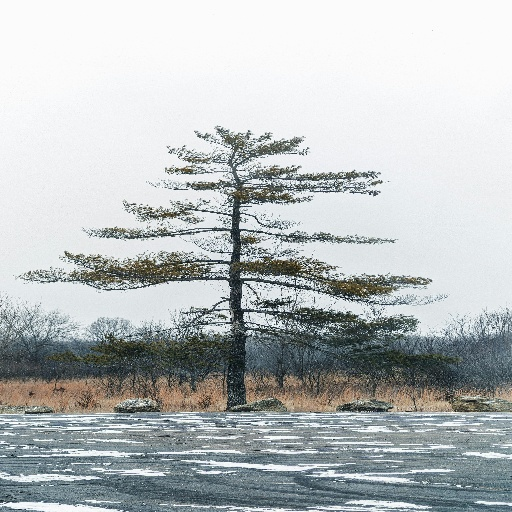
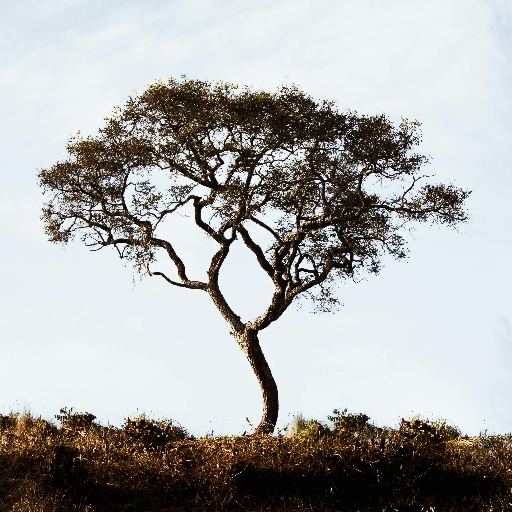
Update

diff --git a/scripts/build_index.py b/scripts/build_index.py
@@ -25,7 +25,14 @@ from src.storage.db import init_db, get_session
 from src.storage.models import Image, Feature
 
 
+import argparse
+
 def main():
+    parser = argparse.ArgumentParser(description="Build Search Index")
+    parser.add_argument("--method", type=str, choices=["faiss", "db", "both"], default="both",
+                        help="Lưu vào đâu? (faiss, db, both)")
+    args = parser.parse_args()
+
     with open("configs/default.yaml", "r", encoding="utf-8") as f:
         config = yaml.safe_load(f)
     processed_dir = Path(config["data"]["processed_dir"])
@@ -46,22 +53,38 @@ def main():
     norm_matrix = normalizer.transform(matrix)
     normalizer.save(str(features_dir))
 
-    print("=== Step 4: Building FAISS index ===")
+    print(f"=== Step 4: Saving features (Method: {args.method}) ===")
     init_db()
-    with get_session() as session:
-        image_ids = []
-        for path in valid_paths:
-            img = session.query(Image).filter_by(filename=path.name).first()
-            if img:
-                image_ids.append(img.id)
-        image_ids = np.array(image_ids, dtype=np.int64)
+    
+    image_ids = []
+    # 1. Lưu vào DB nếu được yêu cầu
+    if args.method in ["db", "both"]:
+        with get_session() as session:
+            print("  Saving vectors to Database...")
+            session.query(Feature).delete()
+            for i, path in enumerate(valid_paths):
+                img = session.query(Image).filter_by(filename=path.name).first()
+                if img:
+                    image_ids.append(img.id)
+                    session.add(Feature(image_id=img.id, vector=norm_matrix[i].tolist()))
+            session.commit()
+    else:
+        # Nếu chỉ build FAISS, vẫn cần lấy list Image IDs để mapping
+        with get_session() as session:
+            for path in valid_paths:
+                img = session.query(Image).filter_by(filename=path.name).first()
+                if img: image_ids.append(img.id)
 
-    store = VectorStore(
-        index_path=config["storage"]["faiss_index_path"],
-        ids_path=config["storage"]["image_ids_path"],
-    )
-    store.build(norm_matrix, image_ids)
-    print(f"  Index built: {len(image_ids)} vectors")
+    # 2. Build FAISS nếu được yêu cầu
+    if args.method in ["faiss", "both"]:
+        print("  Building FAISS index...")
+        store = VectorStore(
+            index_path=config["storage"]["faiss_index_path"],
+            ids_path=config["storage"]["image_ids_path"],
+        )
+        store.build(norm_matrix, np.array(image_ids, dtype=np.int64))
+    
+    print(f"=== Done: Processed {len(image_ids)} images ===")
 
     print("=== Done ===")
 

diff --git a/scripts/ingest_images.py b/scripts/ingest_images.py
@@ -6,6 +6,8 @@ from tqdm import tqdm
 from src.storage.db import init_db, get_session
 from src.storage.models import Image
 
+from src.storage.s3 import MinioStorage
+
 def preprocess():
     # 1. Load config
     with open("configs/default.yaml", "r", encoding="utf-8") as f:
@@ -17,12 +19,13 @@ def preprocess():
     
     processed_dir.mkdir(parents=True, exist_ok=True)
     
-    # 2. Init DB
+    # 2. Init DB and MinIO
     init_db()
+    storage = MinioStorage(config)
     
     # 3. Process images
     image_files = list(raw_dir.glob("*.jpg")) + list(raw_dir.glob("*.png"))
-    print(f"Bắt đầu tiền xử lý {len(image_files)} ảnh...")
+    print(f"Bắt đầu tiền xử lý và upload {len(image_files)} ảnh lên MinIO...")
     
     with get_session() as session:
         for img_path in tqdm(image_files):
@@ -33,16 +36,19 @@ def preprocess():
             
             img_resized = cv2.resize(img, target_size)
             
-            # Lưu vào processed
+            # Lưu tạm vào processed để upload
             out_path = processed_dir / img_path.name
             cv2.imwrite(str(out_path), img_resized)
+            
+            # Upload lên MinIO
+            s3_key = storage.upload_file(out_path)
             
             # Thêm vào DB nếu chưa có
             existing = session.query(Image).filter_by(filename=img_path.name).first()
             if not existing:
                 new_img = Image(
                     filename=img_path.name,
-                    file_path=str(out_path),
+                    file_path=s3_key if s3_key else str(out_path), # Lưu S3 Key
                     width=target_size[0],
                     height=target_size[1],
                     species="Unknown",
@@ -50,6 +56,9 @@ def preprocess():
                     age_class="N/A"
                 )
                 session.add(new_img)
+            else:
+                # Cập nhật đường dẫn nếu đã có
+                existing.file_path = s3_key if s3_key else existing.file_path
         
         session.commit()
     
